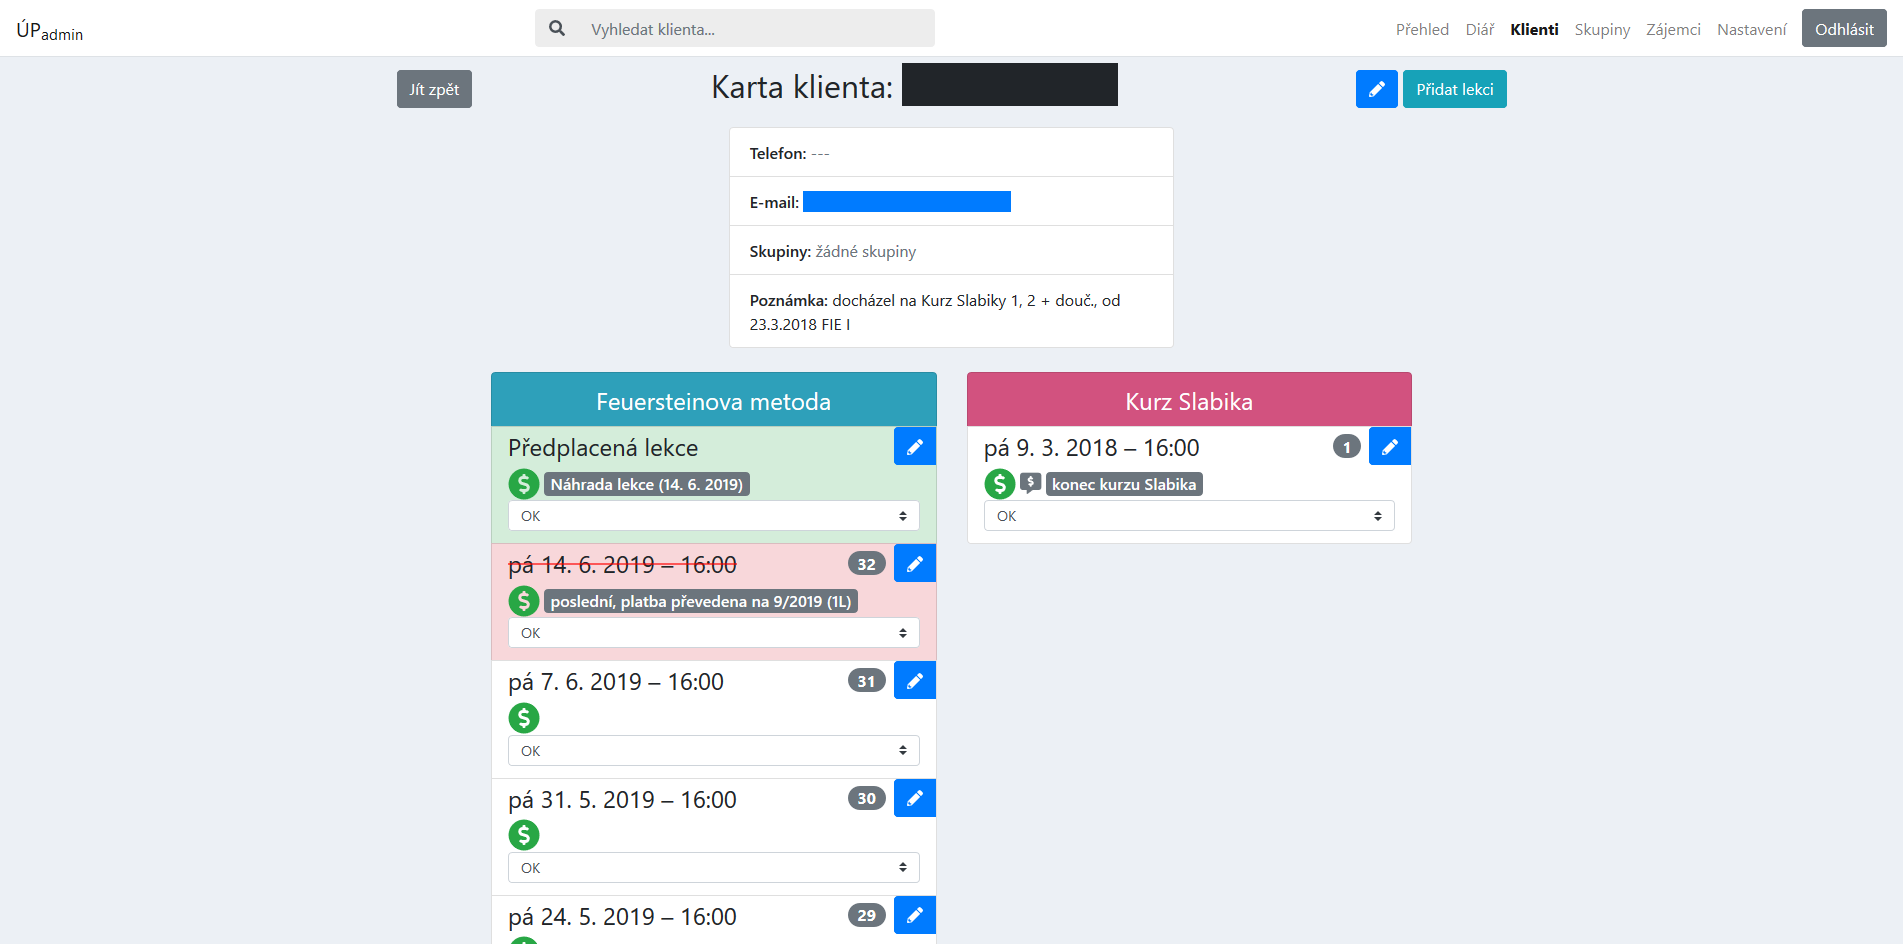
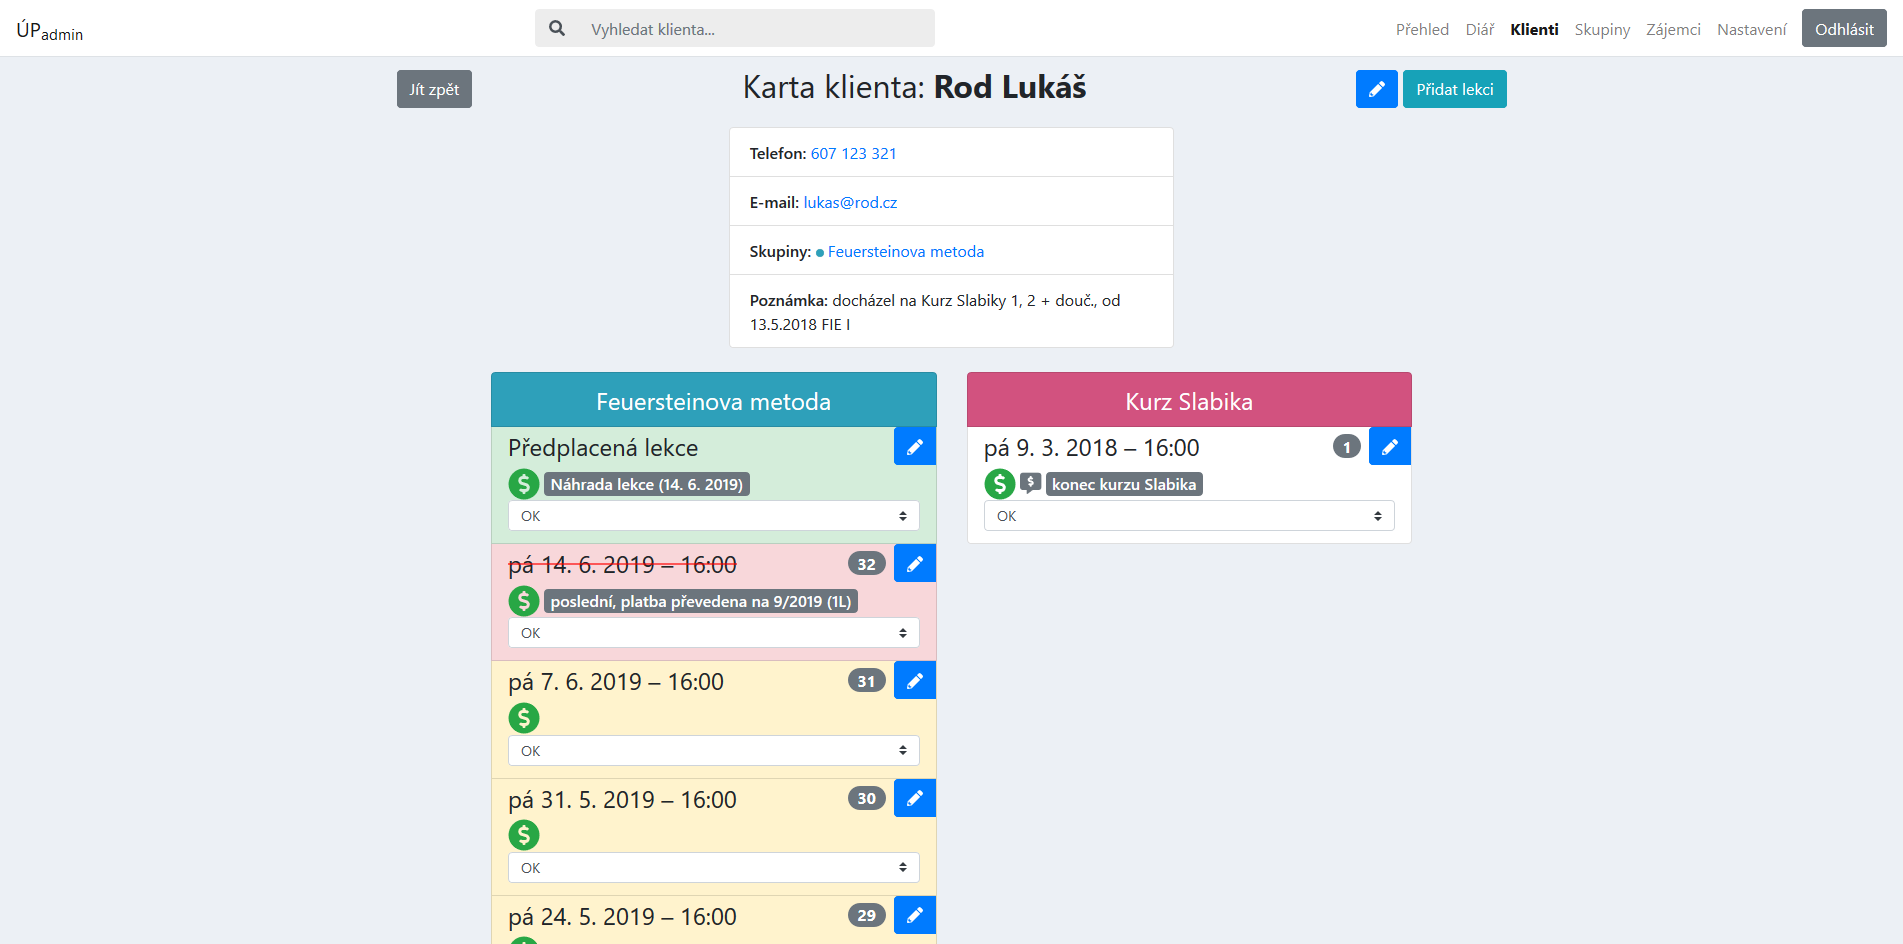
[docs] doplneni a vylepseni screenshotu
[skip ci]

Changed region(s): [[0.248, 0.6758, 0.4961, 1.0], [0.372, 0.0614, 0.5891, 0.1229], [0.403, 0.1536, 0.5271, 0.2765]]

diff --git a/README.md b/README.md
@@ -346,11 +346,15 @@ Aplikace obsahuje rozsáhlé API a UI testy – vizte
 
 ## Screenshoty z aplikace
 
-> **Poznámka:** modré/černé obdelníky skrývají citlivé údaje.
+> **Poznámka:** údaje v aplikaci jsou smyšlené.
 
 ### Diář
 
 [![screenshot z diáře](docs/screenshots/diary.png)](https://raw.githubusercontent.com/rodlukas/UP-admin/master/docs/screenshots/diary.png)
+
+### Přehled (hlavní stránka)
+
+[![screenshot z přehledu](docs/screenshots/dashboard.png)](https://raw.githubusercontent.com/rodlukas/UP-admin/master/docs/screenshots/dashboard.png)
 
 ### Karta klienta
 
@@ -359,6 +363,10 @@ Aplikace obsahuje rozsáhlé API a UI testy – vizte
 ### Zájemci o kurzy
 
 [![screenshot ze zájemců o kurzy](docs/screenshots/applications.png)](https://raw.githubusercontent.com/rodlukas/UP-admin/master/docs/screenshots/applications.png)
+
+### Nastavení
+
+[![screenshot z nastavení](docs/screenshots/settings.png)](https://raw.githubusercontent.com/rodlukas/UP-admin/master/docs/screenshots/settings.png)
 
 ## Licence
 
